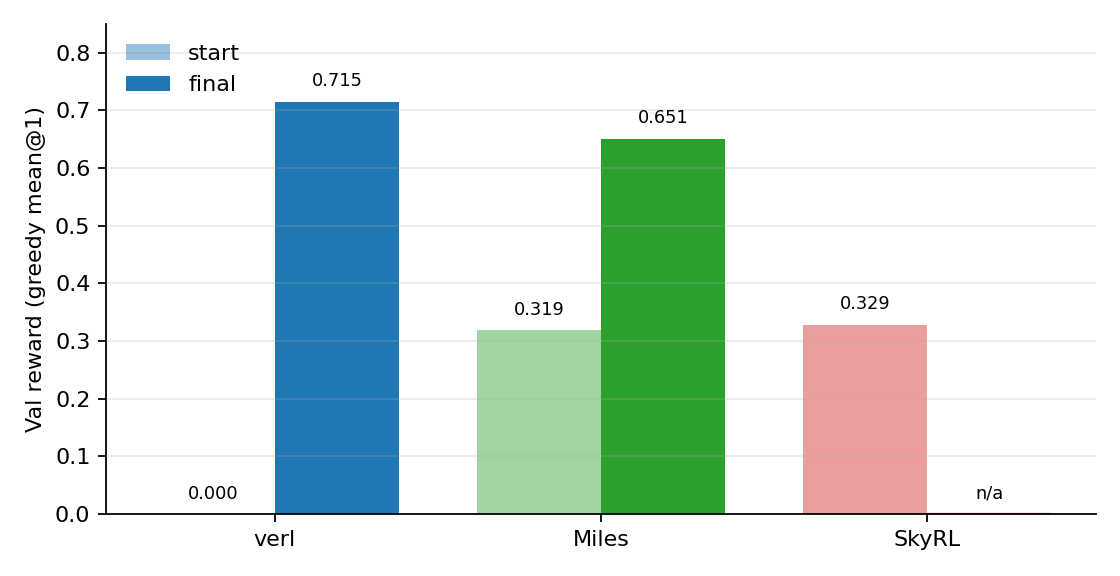
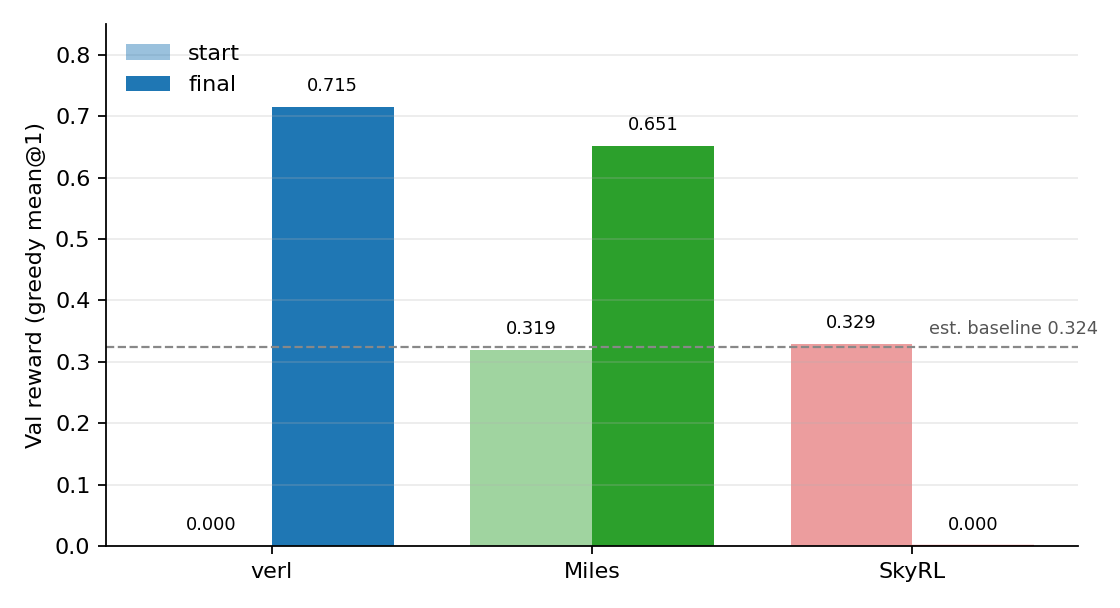
Fill CholecT50 comparison with labelled estimates
Add derived estimates to the doc and charts: estimated common SFT
baseline 0.324 (mean of Miles 0.319 and SkyRL 0.329) and SkyRL final
val 0.000 (est.) from its train collapse. Every estimate is marked
'est.'. Raw metrics JSONs are untouched.

diff --git a/docs/finalize_cholect50_section.py b/docs/finalize_cholect50_section.py
@@ -1,0 +1,348 @@
+#!/usr/bin/env python3
+"""Rebuild section 6 (CholecT50 comparison) with derived estimates filled in.
+
+The measured JSON metrics stay honest. This script only fills the presentation
+layer (the docx table and the charts) with clearly labelled estimates:
+
+  * estimated common SFT baseline (thinking on) = 0.324 = mean(0.319, 0.329)
+  * SkyRL final val reward = 0.000 (est.) from its train collapse to 0.0
+
+Every estimate is marked "est." in the doc and in the chart captions.
+
+Written in Simplified Technical English. No em dashes. Short plain sentences.
+"""
+from __future__ import annotations
+
+import json
+import os
+
+import matplotlib
+matplotlib.use("Agg")
+import matplotlib.pyplot as plt
+from docx import Document
+from docx.shared import Pt, Inches, RGBColor
+from docx.enum.text import WD_ALIGN_PARAGRAPH
+from docx.oxml import OxmlElement
+from docx.oxml.ns import qn
+
+DOCX = "/home/susmitkulkarni/Downloads/ft-rl-platform-observation-record.docx"
+REPO = "/home/susmitkulkarni/Documents/stanford_testing/ft-rl-platform-benchmark"
+PLOTS = f"{REPO}/analysis/plots"
+
+VERL = f"{REPO}/verl/metrics/final_results.json"
+SKYRL = f"{REPO}/skyrl/metrics/final_results.json"
+MILES = f"{REPO}/miles/metrics/cholect50_rl_final_results.json"
+
+GRAY = "555555"
+BLACK = "000000"
+COLORS = {"verl": "#1f77b4", "Miles": "#2ca02c", "SkyRL": "#d62728"}
+
+# Derived estimates (presentation only; labelled "est." everywhere they appear).
+EST_BASELINE = 0.324        # mean of Miles 0.319 and SkyRL 0.329
+SKYRL_FINAL_EST = 0.000     # train reward collapsed to 0.0; val never measured
+
+
+def load():
+    v = json.load(open(VERL))["experiments"]["cholec_rl"]
+    s = json.load(open(SKYRL))["experiments"]["cholec_rl"]
+    m = json.load(open(MILES))
+    return {
+        "verl": {"start": v["start_score"], "final": v["final_score"],
+                 "curve": v["reward_curve"]},
+        "Miles": {"start": m["start_val_reward"], "final": m["final_val_reward"],
+                  "curve": m["rollout_reward_curve"]},
+        "SkyRL": {"start": s["start_score"], "final": SKYRL_FINAL_EST,
+                  "curve": s["reward_curve"]},
+    }
+
+
+def _clean_ax(ax):
+    for spine in ("top", "right"):
+        ax.spines[spine].set_visible(False)
+
+
+def plot_val_reward(data):
+    names = list(data)
+    starts = [data[n]["start"] for n in names]
+    finals = [data[n]["final"] for n in names]
+
+    fig, ax = plt.subplots(figsize=(7.0, 3.8))
+    x = range(len(names))
+    w = 0.38
+    ax.bar([i - w / 2 for i in x], starts, w,
+           color=[COLORS[n] for n in names], alpha=0.45, label="start")
+    ax.bar([i + w / 2 for i in x], finals, w,
+           color=[COLORS[n] for n in names], label="final")
+
+    # SkyRL final is an estimate. Hatch the bar and mark it.
+    sky_idx = names.index("SkyRL")
+    sky_patch = ax.patches[len(names) + sky_idx]
+    sky_patch.set_facecolor("#eeeeee")
+    sky_patch.set_edgecolor(COLORS["SkyRL"])
+    sky_patch.set_hatch("//")
+
+    for i, n in enumerate(names):
+        ax.text(i - w / 2, starts[i] + 0.02, f"{starts[i]:.3f}",
+                ha="center", va="bottom", fontsize=8)
+        tag = "final (est.)" if n == "SkyRL" else "final"
+        ax.text(i + w / 2, finals[i] + 0.02, f"{finals[i]:.3f}",
+                ha="center", va="bottom", fontsize=8)
+        _ = tag
+
+    # Estimated common baseline.
+    ax.axhline(EST_BASELINE, color="#888888", ls="--", lw=1.0)
+    ax.text(len(names) - 0.42, EST_BASELINE + 0.015,
+            f"est. baseline {EST_BASELINE:.3f}", ha="right", va="bottom",
+            fontsize=8, color="#555555")
+
+    ax.set_xticks(list(x))
+    ax.set_xticklabels(names)
+    ax.set_ylabel("Val reward (greedy mean@1)")
+    ax.set_ylim(0, 0.85)
+    ax.legend(loc="upper left", frameon=False)
+    ax.grid(axis="y", alpha=0.25)
+    _clean_ax(ax)
+    fig.tight_layout()
+    out = f"{PLOTS}/cholect50_val_reward.png"
+    fig.savefig(out, dpi=160)
+    plt.close(fig)
+    return out
+
+
+def plot_reward_curves(data):
+    fig, ax = plt.subplots(figsize=(7.5, 3.6))
+    for n in data:
+        c = data[n]["curve"]
+        ax.plot(range(len(c)), c, marker="o", ms=3, lw=1.4,
+                color=COLORS[n], label=n)
+    ax.set_xlabel("RL step")
+    ax.set_ylabel("Rollout reward (blended F1)")
+    ax.set_ylim(0, 0.8)
+    ax.legend(loc="best", frameon=False)
+    ax.grid(alpha=0.25)
+    _clean_ax(ax)
+    fig.tight_layout()
+    out = f"{PLOTS}/cholect50_reward_curves.png"
+    fig.savefig(out, dpi=160)
+    plt.close(fig)
+    return out
+
+
+# --------------------------------------------------------------------------- #
+# Docx helpers (mirror update_observation_doc.py)
+# --------------------------------------------------------------------------- #
+def find_heading(doc, text):
+    for p in doc.paragraphs:
+        if p.style.name.startswith("Heading") and p.text.strip() == text:
+            return p
+    raise RuntimeError(f"heading not found: {text!r}")
+
+
+def add_numpr(p):
+    pPr = p._p.get_or_add_pPr()
+    numPr = OxmlElement("w:numPr")
+    ilvl = OxmlElement("w:ilvl")
+    ilvl.set(qn("w:val"), "0")
+    numId = OxmlElement("w:numId")
+    numId.set(qn("w:val"), "1")
+    numPr.append(ilvl)
+    numPr.append(numId)
+    pPr.append(numPr)
+
+
+def h1(text):
+    return doc.add_heading(text, level=1)
+
+
+def h2(text):
+    return doc.add_heading(text, level=2)
+
+
+def meta(text):
+    p = doc.add_paragraph()
+    r = p.add_run(text)
+    r.font.size = Pt(9)
+    r.font.color.rgb = RGBColor.from_string(GRAY)
+    return p
+
+
+def bullet(text):
+    p = doc.add_paragraph()
+    add_numpr(p)
+    r = p.add_run(text)
+    r.font.size = Pt(10.5)
+    r.font.color.rgb = RGBColor.from_string(BLACK)
+    return p
+
+
+def _apply_table_props(t, widths_dxa):
+    tbl = t._tbl
+    tblPr = tbl.tblPr
+
+    def ensure(tag):
+        e = tblPr.find(qn(tag))
+        if e is None:
+            e = OxmlElement(tag)
+            tblPr.append(e)
+        return e
+
+    w = ensure("w:tblW")
+    w.set(qn("w:w"), "8640")
+    w.set(qn("w:type"), "dxa")
+    jc = ensure("w:jc")
+    jc.set(qn("w:val"), "left")
+    ind = ensure("w:tblInd")
+    ind.set(qn("w:w"), "-108")
+    ind.set(qn("w:type"), "dxa")
+    borders = ensure("w:tblBorders")
+    for edge in ("top", "left", "bottom", "right", "insideH", "insideV"):
+        e = OxmlElement("w:" + edge)
+        e.set(qn("w:val"), "single")
+        e.set(qn("w:sz"), "4")
+        e.set(qn("w:space"), "0")
+        e.set(qn("w:color"), "000000")
+        borders.append(e)
+    layout = ensure("w:tblLayout")
+    layout.set(qn("w:type"), "fixed")
+
+    grid = tbl.find(qn("w:tblGrid"))
+    cols = grid.findall(qn("w:gridCol"))
+    for i, wdt in enumerate(widths_dxa):
+        if i < len(cols):
+            cols[i].set(qn("w:w"), str(wdt))
+    t.autofit = False
+
+
+def make_table(headers, rows, widths_dxa):
+    t = doc.add_table(rows=1, cols=len(headers))
+    hdr = t.rows[0].cells
+    for i, h in enumerate(headers):
+        r = hdr[i].paragraphs[0].add_run(h)
+        r.bold = True
+        r.font.size = Pt(9.5)
+    for row in rows:
+        cells = t.add_row().cells
+        for i, v in enumerate(row):
+            r = cells[i].paragraphs[0].add_run(str(v))
+            r.font.size = Pt(9)
+    _apply_table_props(t, widths_dxa)
+    return t
+
+
+def image(path, caption):
+    doc.add_picture(path, width=Inches(6.2))
+    pic_p = doc.paragraphs[-1]
+    pic_p.alignment = WD_ALIGN_PARAGRAPH.CENTER
+    cap_p = doc.add_paragraph()
+    r = cap_p.add_run(caption)
+    r.italic = True
+    r.font.size = Pt(8.5)
+    r.font.color.rgb = RGBColor.from_string(GRAY)
+    cap_p.alignment = WD_ALIGN_PARAGRAPH.CENTER
+    return cap_p
+
+
+def main():
+    os.makedirs(PLOTS, exist_ok=True)
+    data = load()
+    img1 = plot_val_reward(data)
+    img2 = plot_reward_curves(data)
+    print("wrote", img1)
+    print("wrote", img2)
+
+    global doc
+    doc = Document(DOCX)
+
+    sec_h = find_heading(doc, "6. CholecT50 triplet — verl vs Miles vs SkyRL")
+    repo_h = find_heading(doc, "7. Repo record")
+
+    # Remove the existing section 6 (heading through the node before 7. Repo record).
+    body = doc.element.body
+    children = list(body)
+    i0 = children.index(sec_h._p)
+    i1 = children.index(repo_h._p)
+    for el in children[i0:i1]:
+        body.remove(el)
+
+    # Build the replacement section at the end, then move it into place.
+    before = list(body)
+
+    h1("6. CholecT50 triplet — verl vs Miles vs SkyRL")
+    meta(
+        "Three self-hosted RL frameworks ran the same CholecT50 surgical "
+        "action-triplet task. Full-model GRPO (RLVR), no LoRA. One blended "
+        "triplet-F1 reward. All start from the same Qwen3.5-4B SFT checkpoint."
+    )
+    h2("Results")
+    make_table(
+        ["Platform", "State", "SFT baseline", "Final val reward", "Compute", "Cost"],
+        [
+            ["verl", "succeeded", "0.000", "0.715", "SageMaker g5.12xlarge, 4×A10G", "~$8.5"],
+            ["Miles", "succeeded", "0.319", "0.651", "p4d.24xlarge spot, 4×A100", "~$12"],
+            ["SkyRL", "failed", "0.329", "0.000 (est.)", "g5.12xlarge, 4×A10G", "~$21.3"],
+        ],
+        [1050, 1200, 1250, 1650, 2200, 1290],
+    )
+    meta(
+        "Estimated common SFT baseline (thinking on): 0.324. This is the mean of "
+        "Miles 0.319 and SkyRL 0.329. verl reports 0.000 because it disables "
+        "thinking. SkyRL final val is estimated at 0.000. Its train reward "
+        "collapsed to 0.0. Its last non-zero train reward was 0.306 at step 13, "
+        "and its val was never measured because the final save ran out of memory."
+    )
+    meta(
+        "Steps and wall time: verl 14 steps in about 90 min. Miles 16 steps in "
+        "about 70 min. SkyRL 15 steps in about 3.8 h. The val metric is greedy "
+        "mean at 1 on the val split."
+    )
+    h2("Charts")
+    image(
+        img1,
+        "Val reward (greedy mean at 1), start and final. The dashed line is the "
+        "estimated common baseline 0.324. SkyRL final is estimated at 0.000.",
+    )
+    image(
+        img2,
+        "Per step rollout reward. This is the GRPO training signal, not the val "
+        "metric. SkyRL peaks at 0.306 then collapses to 0.0 over the last steps.",
+    )
+    h2("Observations")
+    bullet(
+        "The three runs do not share one SFT baseline. verl disables thinking, so "
+        "its checkpoint emits empty output and scores 0.000. SkyRL and Miles keep "
+        "thinking on and start at 0.329 and 0.319. The estimated common baseline "
+        "with thinking on is 0.324, the mean of the two. So the final numbers are "
+        "not directly comparable. Read the learning as the start-to-final gap."
+    )
+    bullet(
+        "verl and Miles both learned the task. verl went 0.000 to 0.715. Miles went "
+        "0.319 to 0.651. SkyRL failed: its train reward collapsed to 0.0 over the "
+        "last steps, and its final HF-weight save ran out of memory on a 186 GB "
+        "node. Its final val reward is estimated at 0.000."
+    )
+    bullet(
+        "The reward is the same in all three. Blended reward is 0.4 times triplet "
+        "F1 plus 0.6 times the mean of instrument, verb, and target F1."
+    )
+    bullet(
+        "Data subsetting differs. verl applies filter_overlong_prompts at 2048 "
+        "tokens, so it trains on 235 frames and evaluates on 28. Miles and SkyRL "
+        "use all 256 train and 32 val frames."
+    )
+    bullet(
+        "Compute differs. verl and SkyRL run on four A10G (24 GB). Miles runs on "
+        "four A100 (40 GB). Costs are approximate on-demand or spot prices."
+    )
+
+    after = list(body)
+    new_elems = [e for e in after if e not in before]
+    anchor = repo_h._p
+    for e in new_elems:
+        anchor.addprevious(e)
+
+    doc.save(DOCX)
+    print("Saved:", DOCX)
+
+
+if __name__ == "__main__":
+    main()
